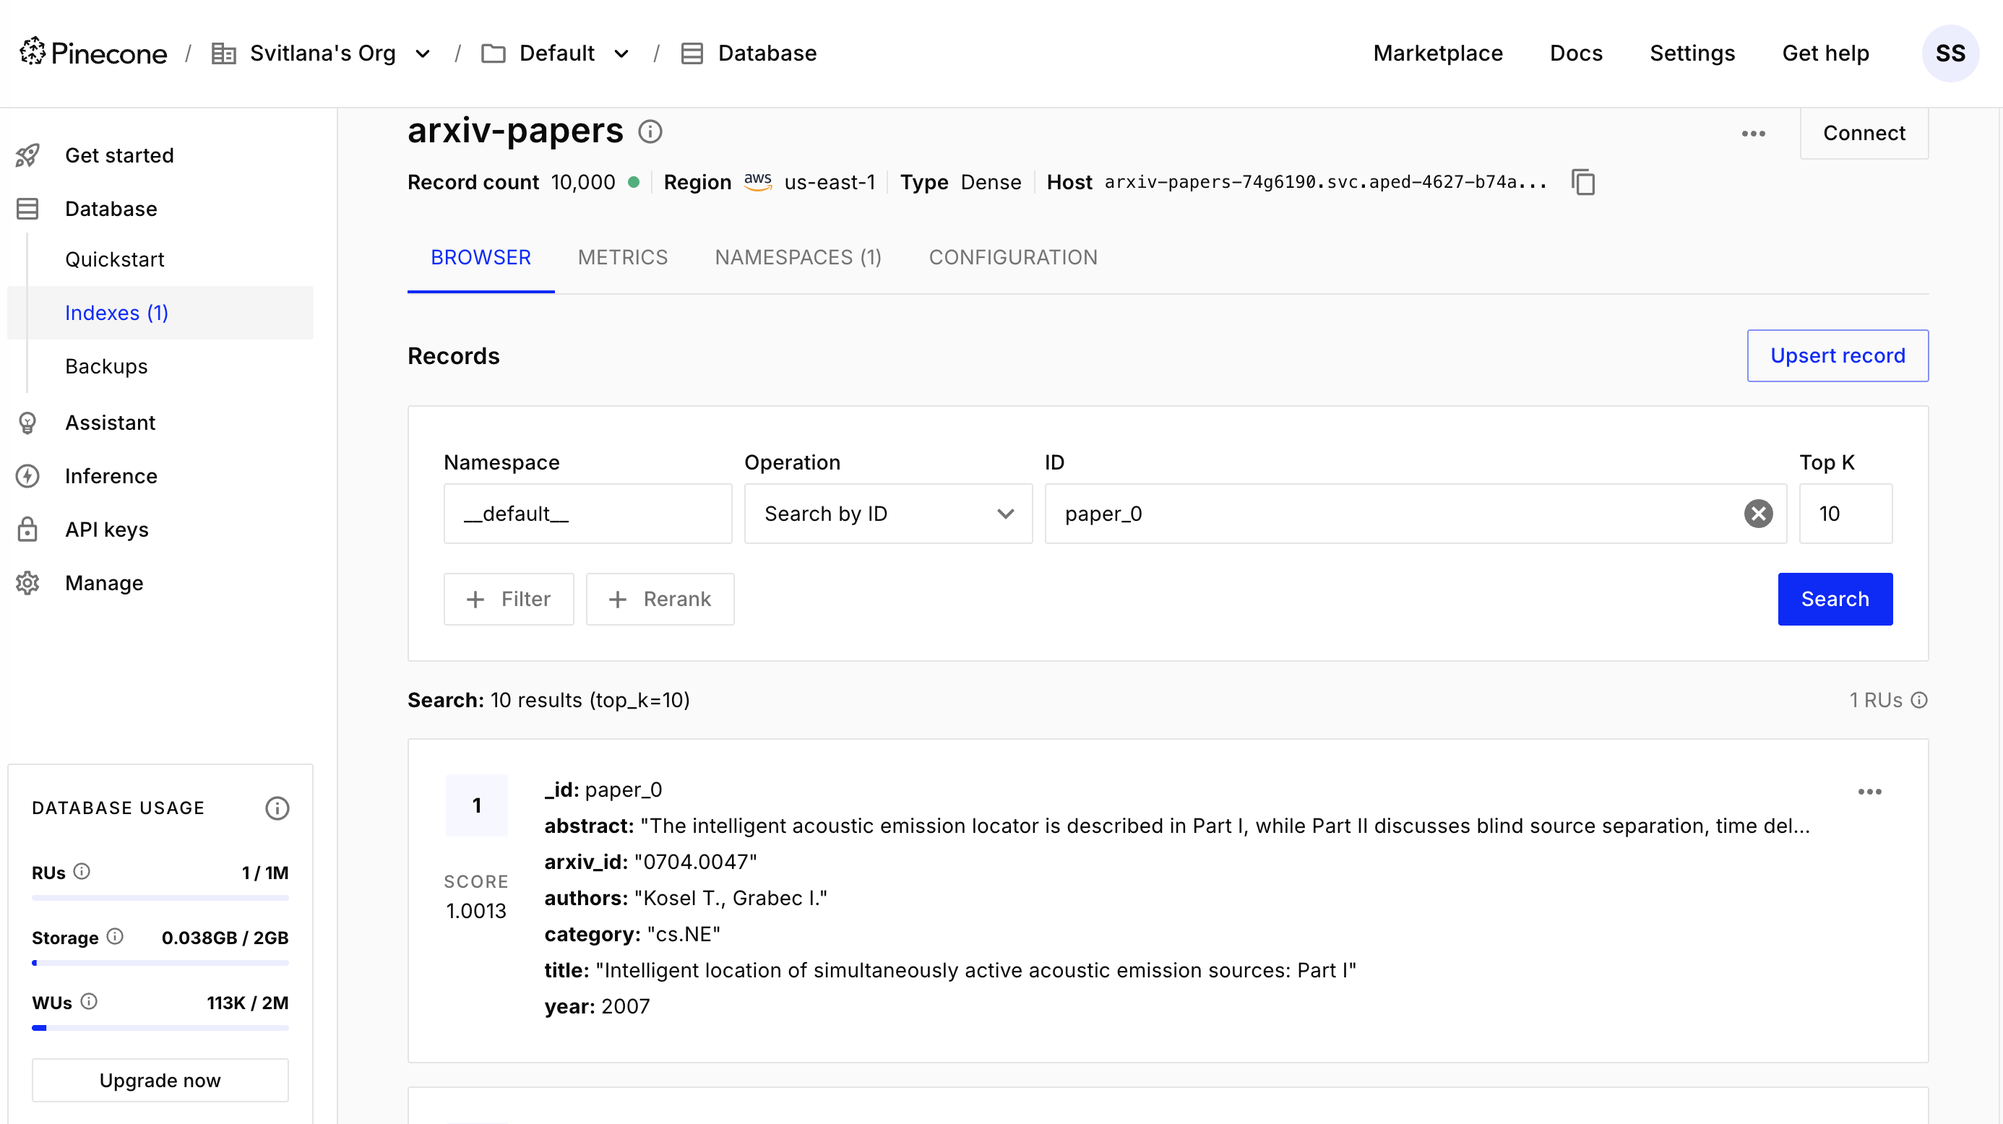
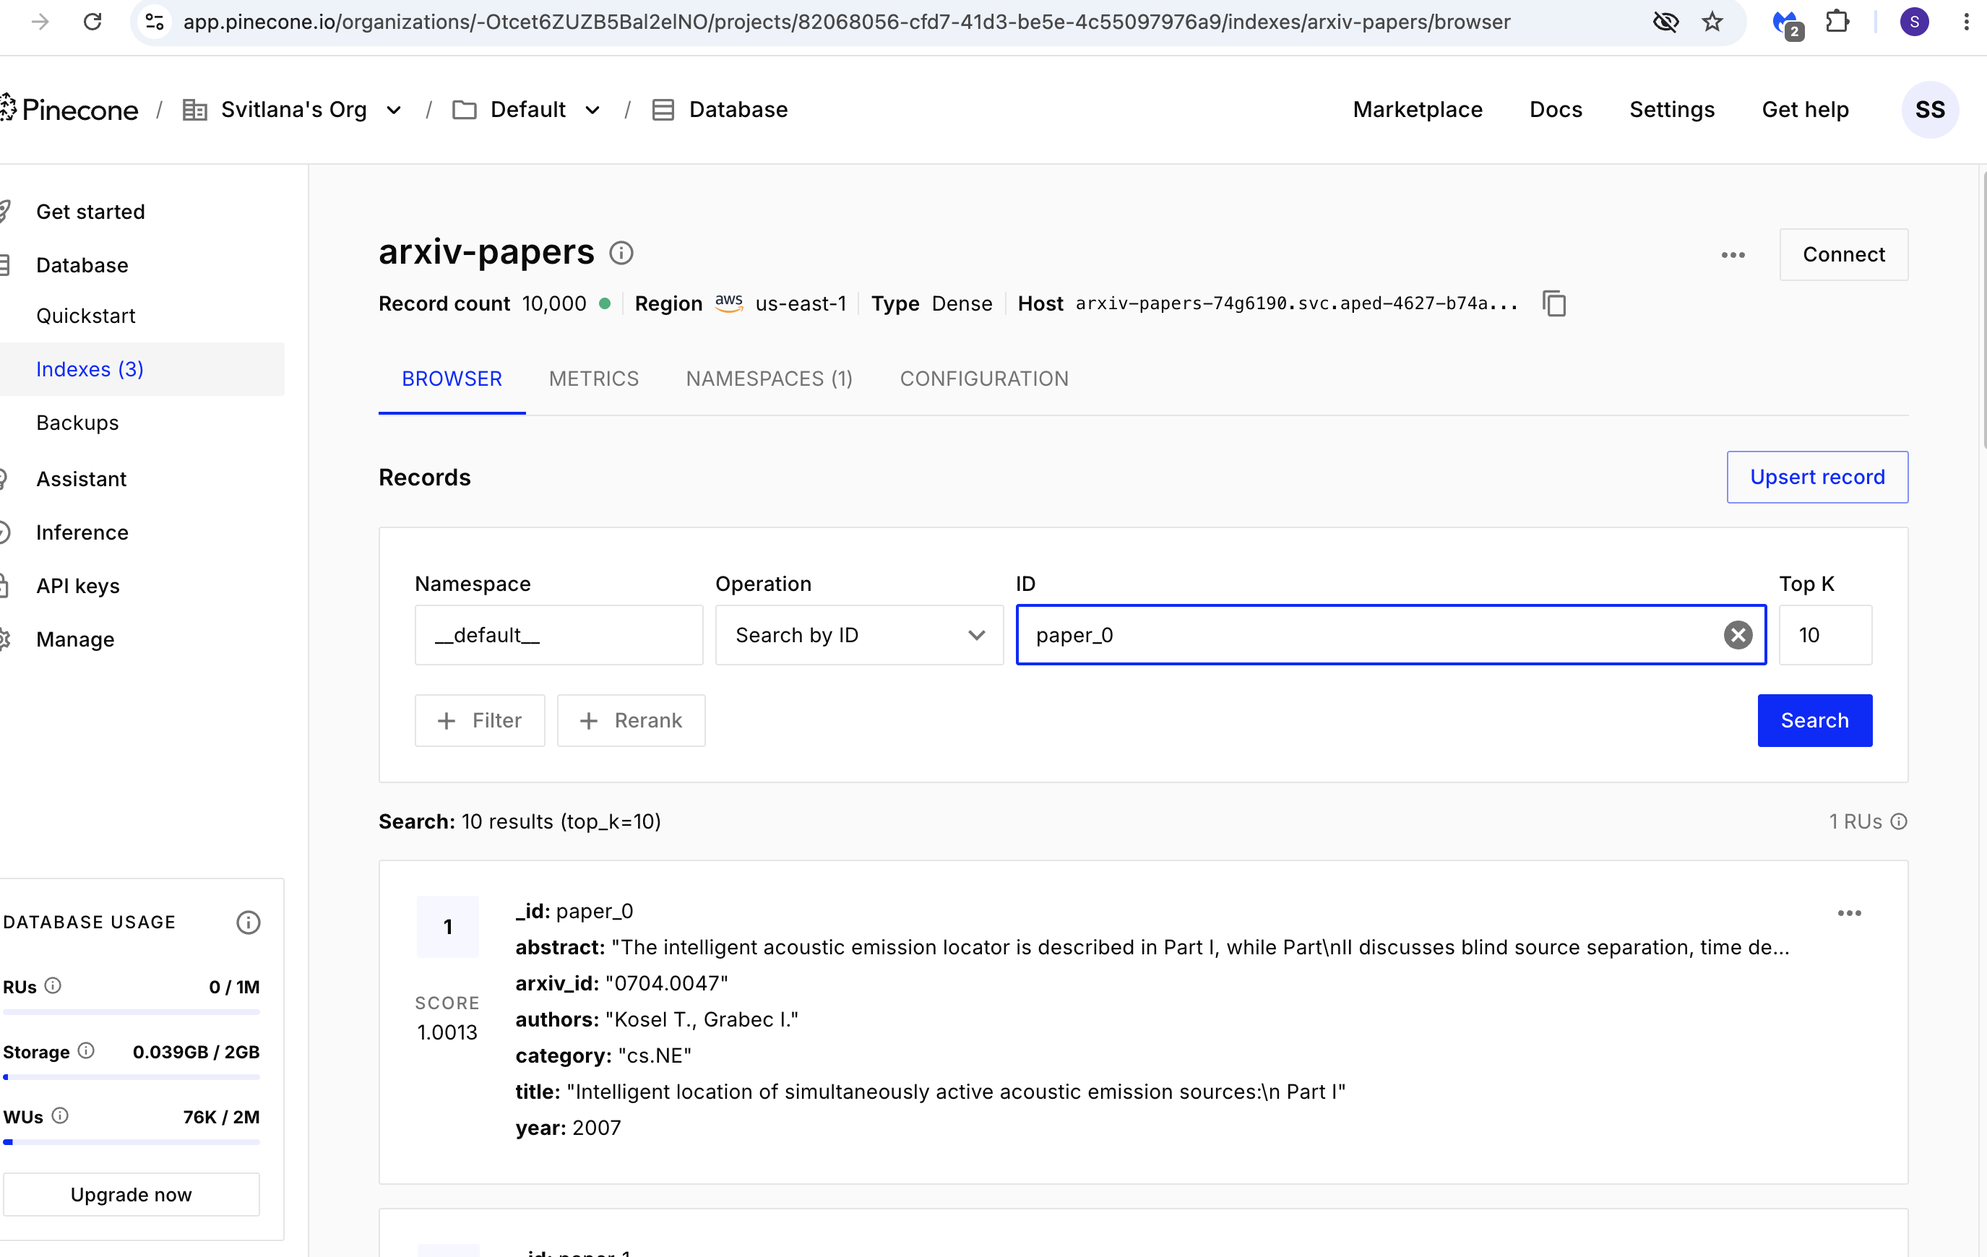
update 3 and 4

diff --git a/scripts/04_search.py b/scripts/04_search.py
@@ -16,23 +16,31 @@ MODEL_NAME = "allenai/specter2_base"
 TOP_K = 5
 
 # Ініціалізація інструментів
+if "PINECONE_API_KEY" not in os.environ:
+    raise ValueError("PINECONE_API_KEY не знайдено у файлі .env!")
+
 pc = Pinecone(api_key=os.environ["PINECONE_API_KEY"])
 index = pc.Index(INDEX_NAME)
 model = SentenceTransformer(MODEL_NAME)
 df = pd.read_parquet("data/arxiv_subset.parquet")
 
 def encode_query(query: str) -> list:
-    """ Крок 2. Функція кодування запиту в нормалізований ембеддінг """
-    # Модель specter2 очікує той самий формат, але без abstract, якщо це запит
+    """ Функція кодування текстового запиту в нормалізований ембеддінг """
     embedding = model.encode(query, normalize_embeddings=True)
     return embedding.tolist()
 
 def print_results(results, title_text):
-    """ Допоміжна функція для красивого виведення результатів Pinecone """
+    """ Допоміжна функція для структурованого виведення результатів з Pinecone """
     print("\n" + "="*60)
     print(f"{title_text}")
     print("="*60)
-    for i, match in enumerate(results.get("matches", []), 1):
+    
+    matches = results.get("matches", [])
+    if not matches:
+        print("Нічого не знайдено за вказаними критеріями фільтрації.")
+        return
+        
+    for i, match in enumerate(matches, 1):
         meta = match.get("metadata", {})
         print(f"{i}. [Score: {match['score']:.4f}] {meta.get('title')}")
         print(f"Категорія: {meta.get('category')} | Рік: {meta.get('year')} | arXiv ID: {meta.get('arxiv_id')}")
@@ -40,14 +48,11 @@ def print_results(results, title_text):
         print("-" * 40)
 
 def main():
-    # Текстовий запит користувача
+    # Чистий семантичний пошук у Pinecone (Без фільтрів)
     query_text = "teaching machines to recognize objects in pictures"
     print(f"Кодуємо запит: '{query_text}'...")
     query_vector = encode_query(query_text)
 
-    # ----------------------------------------------------------------------
-    # Чистий семантичний пошук у Pinecone
-    # ----------------------------------------------------------------------
     pure_results = index.query(
         vector=query_vector,
         top_k=TOP_K,
@@ -58,12 +63,14 @@ def main():
     # ----------------------------------------------------------------------
     # Пошук з фільтрацією (Metadata Filtering)
     # ----------------------------------------------------------------------
-    # Приклад A: Reinforcement learning за останні 5 років (відносно 2007 року в нашому датасеті) і категорія cs.LG
-    # Наш датасет містить статті ТІЛЬКИ за 2007 рік, тому "останні 5 років" зробимо як >= 2005
-    print("\nВиконуємо Приклад A: фільтрація за категорією 'cs.LG' та роком >= 2005...")
+    
+    # Приклад A: статті по reinforcement learning за останні 5 років і категорія cs.LG
+    # Датасет містить статті по 2016 рік включно. 
+    # Останні 5 років відносно фіналу датасету (2016) це період з 2011 по 2016 роки (year >= 2011)
+    print("\nВиконуємо Приклад A: фільтрація за категорією 'cs.LG' та роком >= 2011...")
     filter_a = {
         "category": {"$eq": "cs.LG"},
-        "year": {"$gte": 2005}
+        "year": {"$gte": 2011}
     }
     results_a = index.query(
         vector=query_vector,
@@ -71,10 +78,10 @@ def main():
         include_metadata=True,
         filter=filter_a
     )
-    print_results(results_a, "ПРИКЛАД A (Фільтр: category == cs.LG & year >= 2005)")
+    print_results(results_a, "ПРИКЛАД A (Фільтр: category == cs.LG & year >= 2011)")
 
-    # Приклад B: Більш старі статті (до 2015 року), будь-яка категорія
-    # Оскільки у нас всі статті 2007 року, фільтр year <= 2015 поверне результати
+    # Приклад B: більш старі статті (до 2015 року включно), будь-яка категорія
+    # Цей фільтр наочно продемонструє відсікання всього зрізу статей за 2016 рік
     print("\nВиконуємо Приклад B: фільтрація за роком <= 2015...")
     filter_b = {
         "year": {"$lte": 2015}
@@ -88,37 +95,32 @@ def main():
     print_results(results_b, "ПРИКЛАД B (Фільтр: year <= 2015)")
 
     # ----------------------------------------------------------------------
-    # Порівняння різних метрик схожості на локальних ембеддінгах
+    # Порівняння різних метрик схожості на локальних ембеддінгах (NumPy)
     # ----------------------------------------------------------------------
     print("\n" + "="*60)
     print("ЛОКАЛЬНЕ ПОРІВНЯННЯ МЕТРИК СХОЖОСТІ (NumPy)")
     print("="*60)
 
-    # 1. Завантажуємо матрицю і робимо її копію, яку можна редагувати (.copy())
+    # Завантажуємо локальну матрицю векторів
     local_embeddings = np.load("embeddings/embeddings.npy").copy()
-
-    # 2. Очищаємо копію (тепер copy=True або просто без copy=False)
     local_embeddings = np.nan_to_num(local_embeddings, nan=0.0, posinf=0.0, neginf=0.0)
 
-    # 3. Готуємо і очищаємо вектор запиту
+    # Перетворюємо вектор запиту у формат NumPy масиву
     q_vec = np.array(query_vector)
     q_vec = np.nan_to_num(q_vec, nan=0.0, posinf=0.0, neginf=0.0)
 
-    # 1. Dot Product (Скалярний добуток)
-    # Для матриці 10000x768 та вектора 768 скалярний добуток рахується через матричне множення @
+    # 1. Метрика: Dot Product (Скалярний добуток)
     dot_products = local_embeddings @ q_vec
     top_5_dot = np.argsort(dot_products)[::-1][:TOP_K]
 
-    # 2. Cosine Similarity
-    # Оскільки і матриця, і вектор вже нормалізовані (L2 норма = 1), косинус повністю дорівнює Dot Product!
-    # Проте пропишемо чесну математичну формулу для демонстрації викладачу:
+    # 2. Метрика: Cosine Similarity (Косинусна схожість)
     norm_matrix = np.linalg.norm(local_embeddings, axis=1)
     norm_query = np.linalg.norm(q_vec)
     cosine_similarities = dot_products / (norm_matrix * norm_query)
     top_5_cosine = np.argsort(cosine_similarities)[::-1][:TOP_K]
 
-    # 3. L2 Distance (Евклідова відстань)
-    # Чим МЕНША відстань, тим БЛИЖЧІ вектори. Тому сортуємо по зростанню (без [::-1])
+    # 3. Метрика: L2 Distance (Евклідова відстань)
+    # Менша відстань = більша схожість, тому сортуємо за зростанням (без [::-1])
     l2_distances = np.linalg.norm(local_embeddings - q_vec, axis=1)
     top_5_l2 = np.argsort(l2_distances)[:TOP_K]
 
@@ -134,11 +136,13 @@ def main():
     })
     print(metrics_comparison.to_string(index=False))
 
-    # Виведемо назву найкращої статті для перевірки релевантності змісту
+    # Валідація контенту: виводимо текстові метадані для найкращого збігу
+    # .iloc[best_idx] строго бере рядок за його порядковим номером (0..9999), що гарантує правильну відповідність між індексами вектора та рядками DataFrame
     best_idx = top_5_dot[0]
-    print(f"\nНайкращий збіг за версією Dot Product (ID: paper_{best_idx}):")
+    print(f"\nНайкращий збіг за версією Dot Product (Порядковий номер у базі: paper_{best_idx}):")
     print(f"Заголовок: {df.iloc[best_idx]['title']}")
     print(f"Категорія: {df.iloc[best_idx]['category']}")
+    print(f"Рік      : {df.iloc[best_idx]['year']}")
 
 if __name__ == "__main__":
     main()

diff --git a/scripts/03_load_to_pinecone.py b/scripts/03_load_to_pinecone.py
@@ -36,7 +36,7 @@ def main():
             metric="dotproduct", # Використовуємо Dot Product, бо вектори нормалізовані
             spec=ServerlessSpec(
                 cloud="aws",
-                region="us-east-1"  # Стандартний безкоштовний регіон (Starter Tier)
+                region="us-east-1"  # Стандартний безкоштовний регіон
             )
         )
         print(f"Індекс '{INDEX_NAME}' успішно створено!")
@@ -54,38 +54,42 @@ def main():
     df = pd.read_parquet(INPUT_PARQUET)
     embeddings = np.load(INPUT_EMBEDDINGS)
 
-    # 3. Підготовка даних для завантаження
-    print("Формуємо структуровані об'єкти (id, vectors, metadata)...")
-    upsert_data = []
-    
-    for idx, row in df.iterrows():
-        # Обрізаємо абстракт та авторів згідно з вимогами ДЗ
-        clean_abstract = str(row["abstract"])[:500]
-        clean_authors = str(row["authors"])[:200]
-        
-        # Pinecone очікує кортеж: (id, vector, metadata)
-        item = (
-            f"paper_{idx}",                                 # Унікальний id вигляду paper_0, paper_1...
-            embeddings[idx].tolist(),                       # Перетворюємо масив NumPy у звичайний список Python float
-            {                                               # Словник метаданих
-                "arxiv_id": str(row["id"]),
-                "title": str(row["title"]),
-                "abstract": clean_abstract,
-                "authors": clean_authors,
-                "year": int(row["year"]),
-                "category": str(row["category"])
-            }
-        )
-        upsert_data.append(item)
+    # 3 & 4. Підготовка даних та завантаження в Pinecone батчами на льоту
+    total_records = len(df)
+    print(f"\nФормуємо об'єкти та завантажуємо {total_records} векторів у Pinecone батчами по {BATCH_SIZE}...")
 
-    # 4. Завантаження даних в Pinecone батчами з прогрес-баром
-    print(f"\nЗавантажуємо {len(upsert_data)} векторів у Pinecone батчами по {BATCH_SIZE}...")
+    # Перетворюємо DataFrame на список словників для значного прискорення ітерації
+    records = df.to_dict(orient="records")
     
-    # Крокуємо по всьому масиву з кроком BATCH_SIZE
-    for i in tqdm(range(0, len(upsert_data), BATCH_SIZE), desc="Завантаження в хмару"):
-        batch = upsert_data[i:i + BATCH_SIZE]
-        # Команда upsert виконує вставку або оновлення записів
-        index.upsert(vectors=batch)
+    current_batch = []
+    
+    # Використовуємо tqdm з фіксованим total для відображення прогресу батчів
+    with tqdm(total=total_records, desc="Завантаження в хмару") as pbar:
+        # enumerate(..., start=0) гарантує правильну послідовну індексацію векторів
+        for i, row in enumerate(records):
+            clean_abstract = str(row["abstract"])[:500]
+            clean_authors = str(row["authors"])[:200]
+            
+            # Структуруємо елемент для Pinecone
+            item = (
+                f"paper_{i}",                      # Послідовний ID: paper_0, paper_1 ... paper_9999
+                embeddings[i].tolist(),            # Точна відповідність рядку в матриці npy
+                {
+                    "arxiv_id": str(row["id"]),
+                    "title": str(row["title"]),
+                    "abstract": clean_abstract,
+                    "authors": clean_authors,
+                    "year": int(row["year"]),
+                    "category": str(row["category"])
+                }
+            )
+            current_batch.append(item)
+            
+            # Якщо назбирали повний батч або це фінальний елемент — робимо upsert
+            if len(current_batch) == BATCH_SIZE or i == total_records - 1:
+                index.upsert(vectors=current_batch)
+                pbar.update(len(current_batch))    # Оновлюємо прогрес-бар на кількість надісланих векторів
+                current_batch = []                 # Очищуємо батч для економії пам'яті
 
     # 5. Перевірка фінального статусу індексу
     print("\nСинхронізація індексу...")
@@ -95,7 +99,7 @@ def main():
     print("СТАТИСТИКА ХМАРНОГО ІНДЕКСУ:")
     print(f"Загальна кількість векторів в індексі: {index_stats['total_vector_count']}")
     print("="*50 + "\n")
-    print("Завантаження повністю завершено!")
+    print("Завантаження повністю завершено і оптимізовано за пам'яті!")
 
 if __name__ == "__main__":
     main()

diff --git a/README.md b/README.md
@@ -39,7 +39,7 @@
 
 ---
 
-### 4. Еквівалентність Косинусної схожості та Скалярного добутку для нормалізованих векторів
+### 4. Чому при використанні нормалізованих ембеддингів (одиничної довжини) косинусна схожість (cosine similarity) еквівалентна скалярному добутку (dot product)
 
 Математичний зв'язок між скалярним добутком (Dot Product) та косинусною схожістю (Cosine Similarity) для двох векторів $a$ та $b$ визначається класичною геометричною формулою:
 
